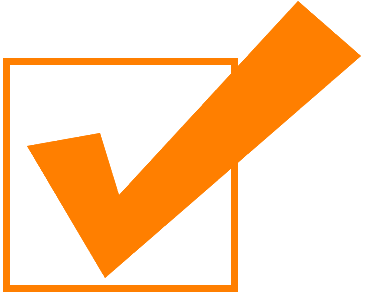
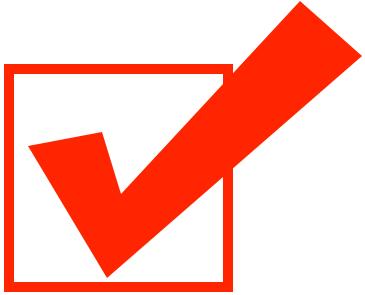
some requested css edits

diff --git a/css/contact.css b/css/contact.css
@@ -1,5 +1,5 @@
 .bgimage{
-	background-image:url(../img/contactus.jpg);
+	background-image:url(../img/REACH_CONTACT_IMG_FLIPPED.jpg);
 	/*background-size: cover;*/
 }
 #contentWrap{
@@ -48,7 +48,7 @@
 	height: 30%;
 }
 .textLabel{
-	color: rgb(255,127,0);
+	color:#FF2500;
 	text-transform:uppercase;
 	font-family: "Helvetica-Condensed", sans-serif;
 	font-size:20px;
@@ -133,7 +133,7 @@ input:-ms-input-placeholder,textarea:-ms-input-placeholder{color:#ff}
 input::-webkit-input-placeholder,textarea::-webkit-input-placeholder{color:#fff}
 
 textarea:focus, input[type="text"]:focus {   
-border-color: rgba(255, 127, 0,0.8);
+border-color:#FF2500;
 box-shadow: 0 1px 1px rgba(255, 127, 0,0.8) inset, 0 0 8px rgba(255, 127, 0,1);
 outline: 0 none;}
 

diff --git a/css/overall.css b/css/overall.css
@@ -9,7 +9,7 @@ a,
 a:visited,
 a:hover,
 a:focus {
-	color: #FF7F00;
+	color: #FF2500;
 	text-decoration: none;
 	outline:none;
 }
@@ -52,13 +52,13 @@ a:focus {
 
 /*--------ORANGE TEXT---------*/
 .orangeText{
-	color: #FF7F00;
+	color: #FF2500;
 }
 
 /*--------CONTENT BOX---------*/
 .contentContainer{
 	background-color: rgba(255,255,255,0.8);
-	border-bottom:8px solid #FF7F00;
+	border-bottom:8px solid #FF2500;
 }
 .contentBox{
 	position: absolute;
@@ -159,7 +159,7 @@ a:focus {
 	text-decoration: none;
 	background-color: white;
 	background-image: none;
-	border-left: 5px solid #FF7F00;
+	border-left: 5px solid #FF2500;
 	padding-left: 15px;
 }
 

diff --git a/css/coaches.css b/css/coaches.css
@@ -15,7 +15,7 @@ body{
 	height:47%;
 	width:22%;
 	background-color: rgba(255,255,255,0.8);
-	border-bottom:10px solid #FF7F00;
+	border-bottom:8px solid #FF2500;
 }
 
 .contentBox{
